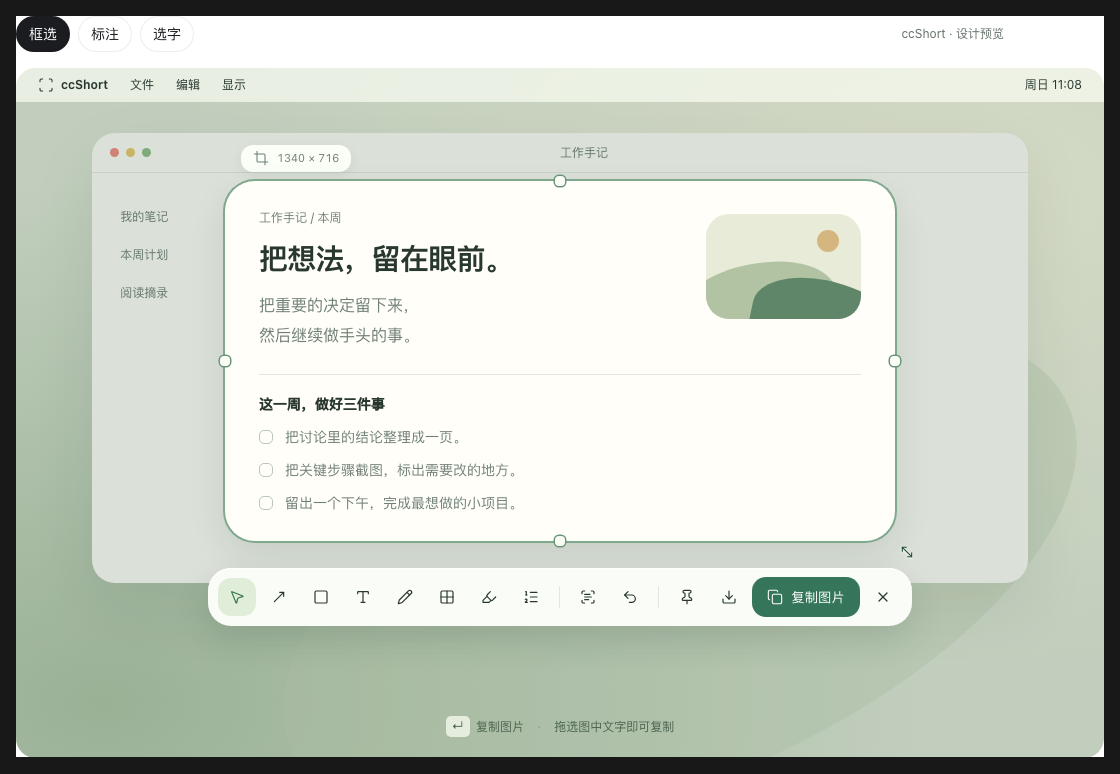
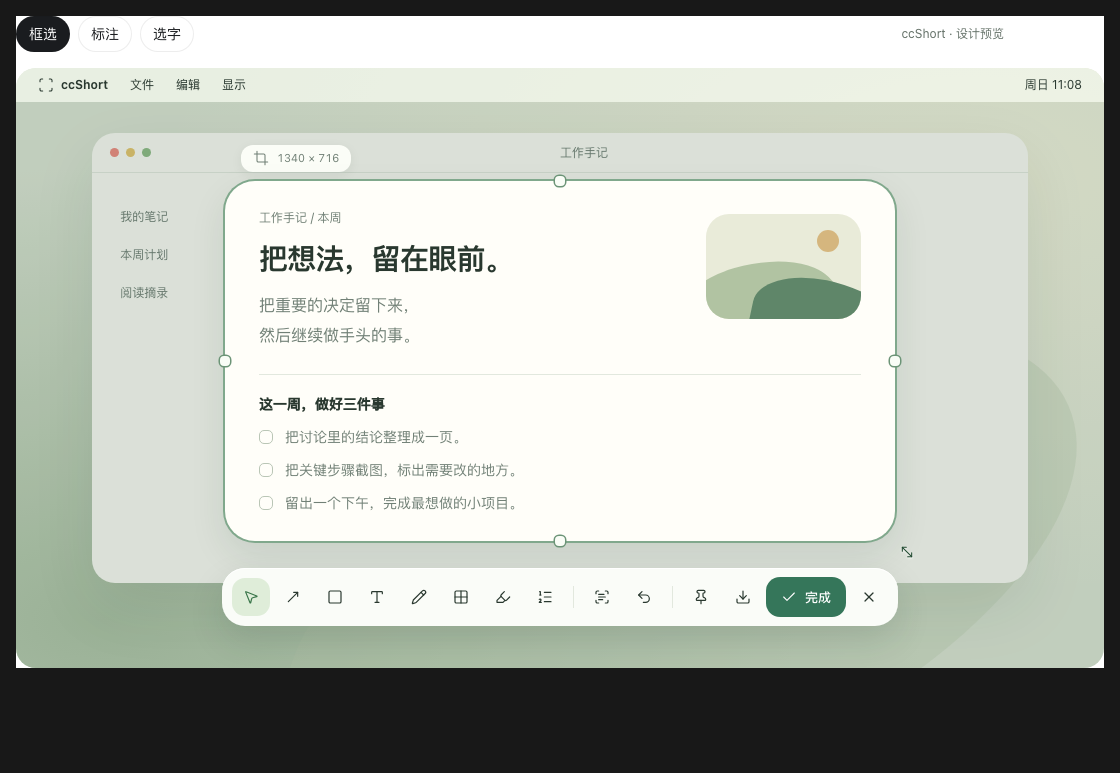
统一完成出口并收敛设计稿为固定审美样式

diff --git a/docs/ui-v4/设计预览.html b/docs/ui-v4/设计预览.html
@@ -2,7 +2,7 @@
 #ccshort-design {font-family:-apple-system,BlinkMacSystemFont,"PingFang SC",sans-serif;}
 #ccshort-design .review-controls {display:flex;gap:8px;align-items:center;flex-wrap:wrap;margin-bottom:16px;padding-right:100px}
 #ccshort-design .review-controls .design-label {margin-left:auto;font-size:12px;color:light-dark(#647168,#b0bcb4)}
-#ccshort-design .desktop {--leaf:#35765A;--soft:#E1EEDF;--ink:light-dark(#29382f,#e7ede7);--sub:light-dark(#718076,#a0b0a4);--surface:light-dark(#fafcf8,#25352d);--hair:light-dark(#e2e8de,#425247);position:relative;overflow:hidden;isolation:isolate;min-height:690px;border-radius:20px;background:light-dark(#dbe5d4,#172a22);color:var(--ink);font-size:14px;line-height:1.5}
+#ccshort-design .desktop {--leaf:#35765A;--soft:#E1EEDF;--ink:light-dark(#29382f,#e7ede7);--sub:light-dark(#718076,#a0b0a4);--surface:light-dark(#fafcf8,#25352d);--hair:light-dark(#e2e8de,#425247);position:relative;overflow:hidden;isolation:isolate;min-height:600px;border-radius:20px;background:light-dark(#dbe5d4,#172a22);color:var(--ink);font-size:14px;line-height:1.5}
 #ccshort-design .wallpaper {position:absolute;inset:0;z-index:-1;background:radial-gradient(ellipse at 8% 92%,light-dark(#aec4a7,#254b38),transparent 58%),radial-gradient(ellipse at 88% 18%,light-dark(#f0f2dc,#345541),transparent 60%)}
 #ccshort-design .wallpaper:after {content:"";position:absolute;width:850px;height:400px;top:310px;left:22%;border-radius:50%;background:light-dark(#c1d2b5,#284e38);transform:rotate(-24deg);opacity:.42}
 #ccshort-design .menubar {height:34px;padding:0 22px;display:flex;align-items:center;gap:22px;background:light-dark(#edf2e7b8,#1b2d24ba);font-size:12px}
@@ -18,7 +18,7 @@
 #ccshort-design .veil {position:absolute;inset:34px 0 0;background:light-dark(#203c2c22,#08180d49);pointer-events:none}
 #ccshort-design .composition {position:relative;width:min(670px,calc(100% - 120px));margin:79px auto 0}
 #ccshort-design .dimensions {position:absolute;left:16px;top:-36px;display:flex;align-items:center;gap:8px;padding:5px 12px;border-radius:12px;background:light-dark(#fbfdf7,#2a3b30);box-shadow:0 3px 12px #162c1810;font-size:11px;font-variant-numeric:tabular-nums;color:var(--sub)}
-#ccshort-design .note {position:relative;border-radius:var(--radius,30px);background:light-dark(#fffef9,#202e27);min-height:358px;padding:28px 34px;box-shadow:0 0 0 2px light-dark(#80a88c,#9cc3a3),0 14px 36px #143c271a;box-sizing:border-box}
+#ccshort-design .note {position:relative;border-radius:30px;background:light-dark(#fffef9,#202e27);min-height:358px;padding:28px 34px;box-shadow:0 0 0 2px light-dark(#80a88c,#9cc3a3),0 14px 36px #143c271a;box-sizing:border-box}
 #ccshort-design .note .eyebrow {font-size:12px;color:var(--sub);margin:0 0 12px}
 #ccshort-design .note h2 {font-size:29px;line-height:1.35;letter-spacing:-.8px;font-weight:600;margin:0 0 13px;color:var(--ink)}
 #ccshort-design .intro {font-size:16px;line-height:1.85;margin:0;color:var(--sub);position:relative;z-index:2}
@@ -51,26 +51,20 @@
 #ccshort-design .tool.active {background:light-dark(#dfedd9,#426047);color:light-dark(#397549,#dbecd5)}
 #ccshort-design .tool svg {width:20px;height:20px;stroke-width:1.8}
 #ccshort-design .divider {height:22px;width:1px;background:var(--hair);margin:0 5px;flex:none}
-#ccshort-design .copy {border:none;background:var(--leaf);color:#fff;display:inline-flex;align-items:center;justify-content:center;gap:8px;border-radius:14px;height:40px;padding:0 14px;font:500 13px inherit;min-width:108px;white-space:nowrap}
+#ccshort-design .copy {border:none;background:var(--leaf);color:#fff;display:inline-flex;align-items:center;justify-content:center;gap:8px;border-radius:14px;height:40px;padding:0 14px;font:500 13px -apple-system,BlinkMacSystemFont,"PingFang SC",sans-serif;min-width:80px;white-space:nowrap}
 #ccshort-design .copy svg {width:16px;height:16px}
-#ccshort-design .selection-actions {display:none;align-items:center;gap:2px;padding:5px;position:absolute;top:177px;left:35px;border-radius:15px;background:var(--surface);box-shadow:0 6px 25px #17312428;z-index:4}
-#ccshort-design .selection-actions button {border:0;background:transparent;border-radius:10px;padding:6px 10px;font-family:inherit;font-size:12px;color:var(--ink)}
-#ccshort-design .selection-actions button:hover {background:var(--soft);color:#294e35}
-#ccshort-design [data-state="text"] .selection-actions {display:flex}
-#ccshort-design .stylebar {display:none;align-items:center;gap:12px;margin:13px auto 0;padding:8px 14px;border-radius:18px;background:var(--surface);width:max-content;max-width:90%;box-shadow:0 6px 20px #183c2414;font-size:12px;color:var(--sub)}
-#ccshort-design [data-state="annotation"] .stylebar {display:flex}
-#ccshort-design .swatch {width:18px;height:18px;border:0;border-radius:50%;padding:0}
-#ccshort-design .swatch.selected {outline:1.5px solid var(--leaf);outline-offset:3px}
-#ccshort-design .line-weight {width:28px;height:4px;border-radius:3px;background:var(--ink)}
-#ccshort-design .state-caption {position:absolute;bottom:22px;left:20px;right:20px;text-align:center;color:light-dark(#4c6551,#b4c7b7);font-size:12px}
-#ccshort-design .state-caption kbd {font:inherit;background:light-dark(#e5eddf,#304637);padding:3px 6px;border-radius:5px;margin-right:3px}
 #ccshort-design [data-state="annotation"] .crop-cursor,#ccshort-design [data-state="text"] .crop-cursor {display:none}
 #ccshort-design [data-state="text"] .handle {opacity:.55}
 #ccshort-design .demo-toast {position:absolute;bottom:50px;left:50%;transform:translateX(-50%);padding:8px 15px;border-radius:12px;background:var(--surface);font-size:12px;box-shadow:0 5px 20px #17312422;white-space:nowrap}
 #ccshort-design .demo-toast:empty {display:none}
 @media(max-width:760px) {#ccshort-design .composition {width:calc(100% - 60px)}#ccshort-design .toolbar{gap:1px;padding:8px}#ccshort-design .tool{width:32px}#ccshort-design .toolbar .optional {display:none}#ccshort-design .landscape{width:118px;right:25px}#ccshort-design .note h2{font-size:25px}#ccshort-design .art-caption{right:25px}#ccshort-design .annotation-label{right:28px}#ccshort-design .note{padding:28px}}
-@media(max-width:530px) {#ccshort-design .desktop{min-height:675px}#ccshort-design .menubar{gap:12px;padding:0 14px}#ccshort-design .menubar .menu-extra{display:none}#ccshort-design .composition{width:calc(100% - 34px);margin-top:65px}#ccshort-design .note{padding:25px 22px;min-height:376px}#ccshort-design .note h2{font-size:23px;letter-spacing:-1px}#ccshort-design .intro{font-size:14px}#ccshort-design .landscape,#ccshort-design .art-caption{display:none}#ccshort-design .tasks{font-size:12px;gap:15px}#ccshort-design .toolbar{max-width:calc(100% - 22px);flex-wrap:wrap;justify-content:center;margin-top:21px}#ccshort-design .toolbar .secondary,#ccshort-design .toolbar .divider.secondary{display:none}#ccshort-design .copy{min-width:90px;padding:0 9px}#ccshort-design .tool{width:31px;height:35px}#ccshort-design .annotation-label{top:183px;right:22px;font-size:13px}#ccshort-design .selection-actions{left:22px;top:162px}#ccshort-design .review-controls{padding-right:0}#ccshort-design .review-controls .design-label{display:none}#ccshort-design .stylebar{gap:10px}#ccshort-design .state-caption{font-size:11px}}
 @media(prefers-reduced-motion:reduce){#ccshort-design *{transition:none!important}}
+#ccshort-design .context-actions {position:absolute;z-index:10;width:166px;padding:5px;background:var(--surface);border-radius:13px;box-shadow:0 8px 28px #13291f28}
+#ccshort-design .context-actions[hidden] {display:none}
+#ccshort-design .context-actions button {display:flex;justify-content:space-between;width:100%;padding:8px 10px;border:0;border-radius:8px;background:transparent;color:var(--ink);font:13px -apple-system,BlinkMacSystemFont,"PingFang SC",sans-serif}
+#ccshort-design .context-actions button:hover {background:light-dark(#e1eedf,#405b45)}
+#ccshort-design .context-actions button span {color:var(--sub)}
+#ccshort-design [data-all="true"] .note h2,#ccshort-design [data-all="true"] .task-heading,#ccshort-design [data-all="true"] .task>span:last-child,#ccshort-design [data-all="true"] .eyebrow {background:light-dark(#cee4c8,#42694b);color:var(--ink);width:fit-content;border-radius:3px}
 </style>
 <div id="ccshort-design">
   <div class="review-controls" aria-label="设计稿状态">
@@ -98,7 +92,6 @@
         <span class="annotation-label">这里补一张图</span>
         <span class="handle n"></span><span class="handle s"></span><span class="handle w"></span><span class="handle e"></span>
         <span class="crop-cursor"><i data-lucide="move-diagonal-2" aria-hidden="true"></i></span>
-        <div class="selection-actions"><button data-demo="已演示复制选中文字">复制</button><button data-demo="已演示选取全部文字">全选</button></div>
       </article>
     </div>
     <div class="toolbar" role="toolbar" aria-label="截图工具设计">
@@ -116,26 +109,49 @@
       <span class="divider"></span>
       <button class="tool optional" data-demo="钉图操作示意" aria-label="钉住" data-tooltip="钉住"><i data-lucide="pin" aria-hidden="true"></i></button>
       <button class="tool optional" data-demo="保存操作示意，不生成文件" aria-label="保存" data-tooltip="保存"><i data-lucide="download" aria-hidden="true"></i></button>
-      <button class="copy" data-demo="复制操作示意，不改动剪贴板"><i data-lucide="copy" aria-hidden="true"></i><span>复制图片</span></button>
+      <button class="copy" data-finish data-tooltip="复制图片并结束 · 回车"><i data-lucide="check" aria-hidden="true"></i><span>完成</span></button>
       <button class="tool" data-demo="结束截图操作示意" aria-label="关闭" data-tooltip="关闭"><i data-lucide="x" aria-hidden="true"></i></button>
     </div>
-    <div class="stylebar" aria-label="箭头样式"><button class="swatch selected" style="background:#35765a" data-color="#35765a" aria-label="叶绿色"></button><button class="swatch" style="background:#ca715c" data-color="#ca715c" aria-label="陶红色"></button><button class="swatch" style="background:#6683ae" data-color="#6683ae" aria-label="雾蓝色"></button><button class="swatch" style="background:#343c35" data-color="#343c35" aria-label="炭灰色"></button><span class="divider"></span><span class="line-weight"></span><span>6</span><span class="divider"></span><span>空心箭头</span></div>
+    <div class="context-actions" hidden aria-label="文字操作"><button data-copy>复制 <span>⌘C</span></button><button data-select-all>全选 <span>⌘A</span></button></div>
     <div class="demo-toast" role="status"></div>
-    <div class="state-caption" aria-live="polite"><kbd>↵</kbd> 复制图片 <span style="margin:0 10px;opacity:.4">·</span> 拖选图中文字即可复制</div>
   </div>
 </div>
 <script>
 (()=>{
 const root=document.getElementById('ccshort-design');
 const stage=root.querySelector('.desktop');
-const state={radius:30,accent:'#35765a',appearance:'light dark'};
+const menu=root.querySelector('.context-actions');
+const finish=root.querySelector('[data-finish]');
 let toastTimer;
-function render(){stage.style.colorScheme=state.appearance;stage.style.setProperty('--radius',state.radius+'px');stage.style.setProperty('--leaf',state.accent);}
-function scene(name){stage.dataset.state=name;root.querySelectorAll('[data-scene]').forEach(b=>{let active=b.dataset.scene===name;b.classList.toggle('btn-primary',active);b.setAttribute('aria-pressed',String(active));});root.querySelectorAll('[data-tool]').forEach(b=>{let active=b.dataset.tool===name;b.classList.toggle('active',active);b.setAttribute('aria-pressed',String(active));});root.querySelector('.copy span').textContent=name==='text'?'复制文字':'复制图片';root.querySelector('.state-caption').innerHTML=name==='text'?'<kbd>⌘ C</kbd> 复制选中文字':name==='annotation'?'<kbd>Esc</kbd> 返回选择 <span style="margin:0 10px;opacity:.4">·</span> <kbd>↵</kbd> 复制图片':'<kbd>↵</kbd> 复制图片 <span style="margin:0 10px;opacity:.4">·</span> 拖选图中文字即可复制';root.querySelector('.demo-toast').textContent='';}
+function feedback(message){clearTimeout(toastTimer);menu.hidden=true;root.querySelector('.demo-toast').textContent=message;toastTimer=setTimeout(()=>root.querySelector('.demo-toast').textContent='',2400);}
+function scene(name){
+  stage.dataset.state=name;stage.dataset.all='false';menu.hidden=true;
+  root.querySelectorAll('[data-scene]').forEach(b=>{const active=b.dataset.scene===name;b.classList.toggle('btn-primary',active);b.setAttribute('aria-pressed',String(active));});
+  root.querySelectorAll('[data-tool]').forEach(b=>{const active=b.dataset.tool===name;b.classList.toggle('active',active);b.setAttribute('aria-pressed',String(active));});
+  const detail=name==='text'?'复制所选文字并结束':'复制图片并结束';
+  finish.dataset.tooltip=detail+' · 回车';finish.setAttribute('aria-label','完成：'+detail);
+  root.querySelector('.demo-toast').textContent='';
+}
+function copyPreview(close){const target=stage.dataset.state==='text'?'所选文字':'图片';feedback('演示：复制'+target+(close?'并结束截图':'，继续编辑'));}
 root.querySelectorAll('[data-scene],[data-tool]').forEach(b=>b.addEventListener('click',()=>scene(b.dataset.scene||b.dataset.tool)));
-root.querySelectorAll('[data-demo]').forEach(b=>b.addEventListener('click',()=>{clearTimeout(toastTimer);root.querySelector('.demo-toast').textContent=b.dataset.demo;toastTimer=setTimeout(()=>root.querySelector('.demo-toast').textContent='',2200);}));
-root.querySelectorAll('[data-color]').forEach(b=>b.addEventListener('click',()=>{state.accent=b.dataset.color;render();root.querySelectorAll('[data-color]').forEach(c=>c.classList.toggle('selected',c===b));}));
-render();scene('capture');
-if(globalThis.Tweak){const t=new Tweak({container:stage,onChange:render});t.addSelect(state,'appearance',{label:'外观',options:[{label:'跟随系统',value:'light dark'},{label:'浅色',value:'light'},{label:'深色',value:'dark'}]});t.addSlider(state,'radius',{label:'圆润程度',min:18,max:40,unit:'px'});t.addColorPicker(state,'accent',{label:'标注与按钮绿色',reference:'--leaf'});}
+root.querySelectorAll('[data-demo]').forEach(b=>b.addEventListener('click',()=>feedback(b.dataset.demo)));
+finish.addEventListener('click',()=>copyPreview(true));
+root.querySelector('[data-copy]').addEventListener('click',()=>copyPreview(false));
+root.querySelector('[data-select-all]').addEventListener('click',()=>{stage.dataset.all='true';menu.hidden=true;});
+root.querySelector('.note').addEventListener('contextmenu',e=>{
+  if(stage.dataset.state!=='text')return;
+  e.preventDefault();const rect=stage.getBoundingClientRect();menu.hidden=false;
+  menu.style.left=Math.max(8,Math.min(e.clientX-rect.left,rect.width-menu.offsetWidth-8))+'px';
+  menu.style.top=Math.max(8,Math.min(e.clientY-rect.top,rect.height-menu.offsetHeight-8))+'px';
+  menu.querySelector('button').focus();
+});
+root.addEventListener('click',e=>{if(!menu.contains(e.target))menu.hidden=true;});
+stage.addEventListener('keydown',e=>{
+  if(e.key==='Escape'){menu.hidden=true;return;}
+  if((e.metaKey||e.ctrlKey)&&e.key.toLowerCase()==='c'){e.preventDefault();copyPreview(false);}
+  if((e.metaKey||e.ctrlKey)&&e.key.toLowerCase()==='a'&&stage.dataset.state==='text'){e.preventDefault();stage.dataset.all='true';}
+  if(e.key==='Enter'&&e.target.tagName!=='BUTTON'){e.preventDefault();copyPreview(true);}
+});
+scene('capture');
 })();
 </script>

diff --git a/docs/ui-v4/README.md b/docs/ui-v4/README.md
@@ -1,14 +1,24 @@
 # 绿色圆润设计候选
 
-2026-11-08，按用户确认的方向制作。状态：三种状态的设计稿待审美反馈，未替换原生 App，未宣称设计已通过用户验收。
+2026-11-08，按用户确认的方向制作。状态：用户认可整体方向，并确认下述交互精简与固定审美规则；本轮更新设计稿，未替换原生 App。
 
 - 框选：30 点明显圆角、浅绿色边界、圆润控制点，悬浮工具栏。
-- 标注：叶绿色 #35765A 的空心弯箭头、圆角画框、按需显示样式栏。
-- 选字：浅绿色文字高亮、就近复制操作，工具栏明确显示“复制文字”。
+- 标注：叶绿色 #35765A 的空心弯箭头、圆角画框、固定线宽与形态，不显示样式栏。
+- 选字：浅绿色文字高亮，无自动浮出的小菜单；工具栏始终显示“完成”，复制/全选进入右键菜单。
 - 产品原则：审美为核心，自动本地识字、用户主动复制，识字不阻塞截图；AI 暂缓。圆角只作为界面提示，普通导出保留原图四角。
 
-三张 PNG 是同一 HTML 设计预览实际渲染的浅色截图。自制笔记内容与山丘插画，不含用户桌面信息。HTML 为 Codex 内联预览片段，使用宿主提供的 Lucide 图标；可切换三种状态、试色，并在支持设计控件的宿主调整圆角和浅深外观。
+三张 PNG 是同一 HTML 设计预览实际渲染的浅色截图。自制笔记内容与山丘插画，不含用户桌面信息。HTML 为 Codex 内联预览片段，使用宿主提供的 Lucide 图标；可切换三种状态，外观跟随系统；固定圆角、绿色和标注形态，不提供试色或参数控件。
 
-按钮为设计演示，不执行系统截图、任意文字 OCR、剪贴板写入、保存或关闭 App；点击相关动作会显示演示反馈。色板和状态切换实际改变预览。示例文字选择是预设高亮，不属于 OCR 功能验收。
+按钮为设计演示，不执行系统截图、任意文字 OCR、剪贴板写入、保存或关闭 App；点击相关动作会显示演示反馈。状态切换及右键菜单实际改变预览，完成/复制通过明确的演示反馈展示规则，不写入真实剪贴板。示例文字选择是预设高亮，不属于 OCR 功能验收。
 
-检查：桌面宽度 1088 下三种状态渲染、切换与复制标签、工具栏位置稳定、无横向溢出；查看浅色三状态和深色选字画面，修正标注框与文字重叠以及浮层遮字。深色全部状态和原生接入仍需后续验证。
+检查：桌面宽度 1088 下三种状态渲染、切换与固定完成按钮及动态悬停提示、工具栏位置稳定、无横向溢出；查看浅色三状态和深色选字画面，修正标注框与文字重叠以及浮层遮字。深色全部状态和原生接入仍需后续验证。
+
+## 已确认的交互规则
+
+- ⌘C：有选中文字时复制文字，否则复制图片，继续保留截图界面。
+- 完成/回车：采用同一复制目标规则，成功复制后结束截图；失败时保留现场。
+- 保存：保存图片文件；钉住：转为桌面浮窗。
+- 主按钮固定“完成”，悬停提示具体复制对象及回车快捷键；去掉底部常驻快捷键说明。
+- 产品提供经过设计的固定默认样式：箭头采用两条线组成的开口箭头尖、圆润线端和绿色，线宽、框角等保持统一。不给用户暴露“空心箭头”、颜色、粗细和样式选择面板。
+
+本轮只落实设计预览，正式 App 的系统快捷键与导出行为待原生接入验证。

diff --git a/docs/PRD.md b/docs/PRD.md
@@ -360,3 +360,9 @@ DeepSeek 旧模型名 `deepseek-chat` 和 `deepseek-reasoner` 已在 2026-07-24 
 用户确认先制作框选、标注、选字三种状态设计稿：明显而舒展的圆润感、浅绿主题、较深绿色默认标注，统一工具栏和选字反馈。审美作为产品核心；截图后自动本地识字，用户主动复制，识别不阻塞截图且不自动覆盖剪贴板。AI 暂缓。普通截图保留原图四角，界面圆角不等于导出裁圆角。
 
 [本轮设计候选](ui-v4/README.md)仅用于审美与交互评审。具体圆角、色值和布局未获最终视觉确认，未修改原生应用。
+
+### 2026-11-08 · 完成出口与固定审美（用户已确认）
+
+主按钮统一为“完成”：有选中文字就复制文字，否则复制图片，成功后结束截图；⌘C 使用同一目标规则但不结束。保存输出图片文件，钉住转为桌面浮窗。选字不再弹出复制/全选小面板，两项操作保留在右键菜单；快捷键放到悬停提示，去掉底部常驻说明。
+
+产品主动确定符合审美的默认规则，固定绿色、圆润线端、线宽与开口箭头尖等，不提供颜色/粗细/箭头样式的配置栏，不向用户显示“空心箭头”等实现术语。本轮仅更新设计稿，未修改原生 App；整体方向已认可，具体原生实现仍需验证。

diff --git a/docs/决策记录.md b/docs/决策记录.md
@@ -45,3 +45,9 @@
 用户确认按本轮建议先看框选、标注、选字三张连贯设计稿，要求圆润感明显、绿色好看。审美与截图后直接用字为当前核心；采用自动识别、主动复制的交互方向，AI 暂缓。
 
 候选见 [ui-v4](ui-v4/README.md)。30 点圆角、叶绿色标注和具体工具栏布局均为本轮设计提案，待用户反馈；不将“同意先出稿”记录成设计定稿或原生实现验收。
+
+### 2026-11-08 · 完成出口与固定审美（用户已确认）
+
+主按钮统一为“完成”：有选中文字就复制文字，否则复制图片，成功后结束截图；⌘C 使用同一目标规则但不结束。保存输出图片文件，钉住转为桌面浮窗。选字不再弹出复制/全选小面板，两项操作保留在右键菜单；快捷键放到悬停提示，去掉底部常驻说明。
+
+产品主动确定符合审美的默认规则，固定绿色、圆润线端、线宽与开口箭头尖等，不提供颜色/粗细/箭头样式的配置栏，不向用户显示“空心箭头”等实现术语。本轮仅更新设计稿，未修改原生 App；整体方向已认可，具体原生实现仍需验证。

diff --git a/归档事项/2026-11-08-绿色圆润三状态设计稿.md b/归档事项/2026-11-08-绿色圆润三状态设计稿.md
@@ -3,5 +3,9 @@
 - 范围：框选、标注、选字的同场景设计候选；统一明显圆角、浅绿界面和深绿空心箭头。
 - 文件：docs/ui-v4/，同步 PRD 与决策记录的已确认方向。
 - 验证：三状态实际渲染与切换、复制标签、工具栏位置和桌面横向溢出检查；查看浅色三状态、深色选字画面。
-- 边界：仅设计演示，未修改/重装 App，未执行系统复制或真实识字；待用户审美反馈。
+- 边界：仅设计演示，未修改/重装 App，未执行系统复制或真实识字；整体方向已获认可，原生接入待后续实施。
 - 提交：与本记录一起提交并推送当前 main 分支，以 Git 结果为准。
+
+## 本轮交互收敛
+
+用户确认完成/复制/保存/钉住语义，并要求将审美作为固定默认，不提供大量样式选项。更新三状态设计稿及截图，删除颜色/粗细/箭头样式栏、选字浮层、底部说明和设计参数控件，保留右键操作与明确的演示反馈。主按钮统一为“完成”。未修改/重装 App。

diff --git a/归档事项/_index.md b/归档事项/_index.md
@@ -1,3 +1,3 @@
 # 完成记录
 
-- [2026-11-08 绿色圆润三状态设计稿](2026-11-08-绿色圆润三状态设计稿.md)：设计候选待用户反馈，未改动原生 App。
+- [2026-11-08 绿色圆润三状态设计稿](2026-11-08-绿色圆润三状态设计稿.md)：方向认可，完成出口与固定审美规则已确认，未改动原生 App。
